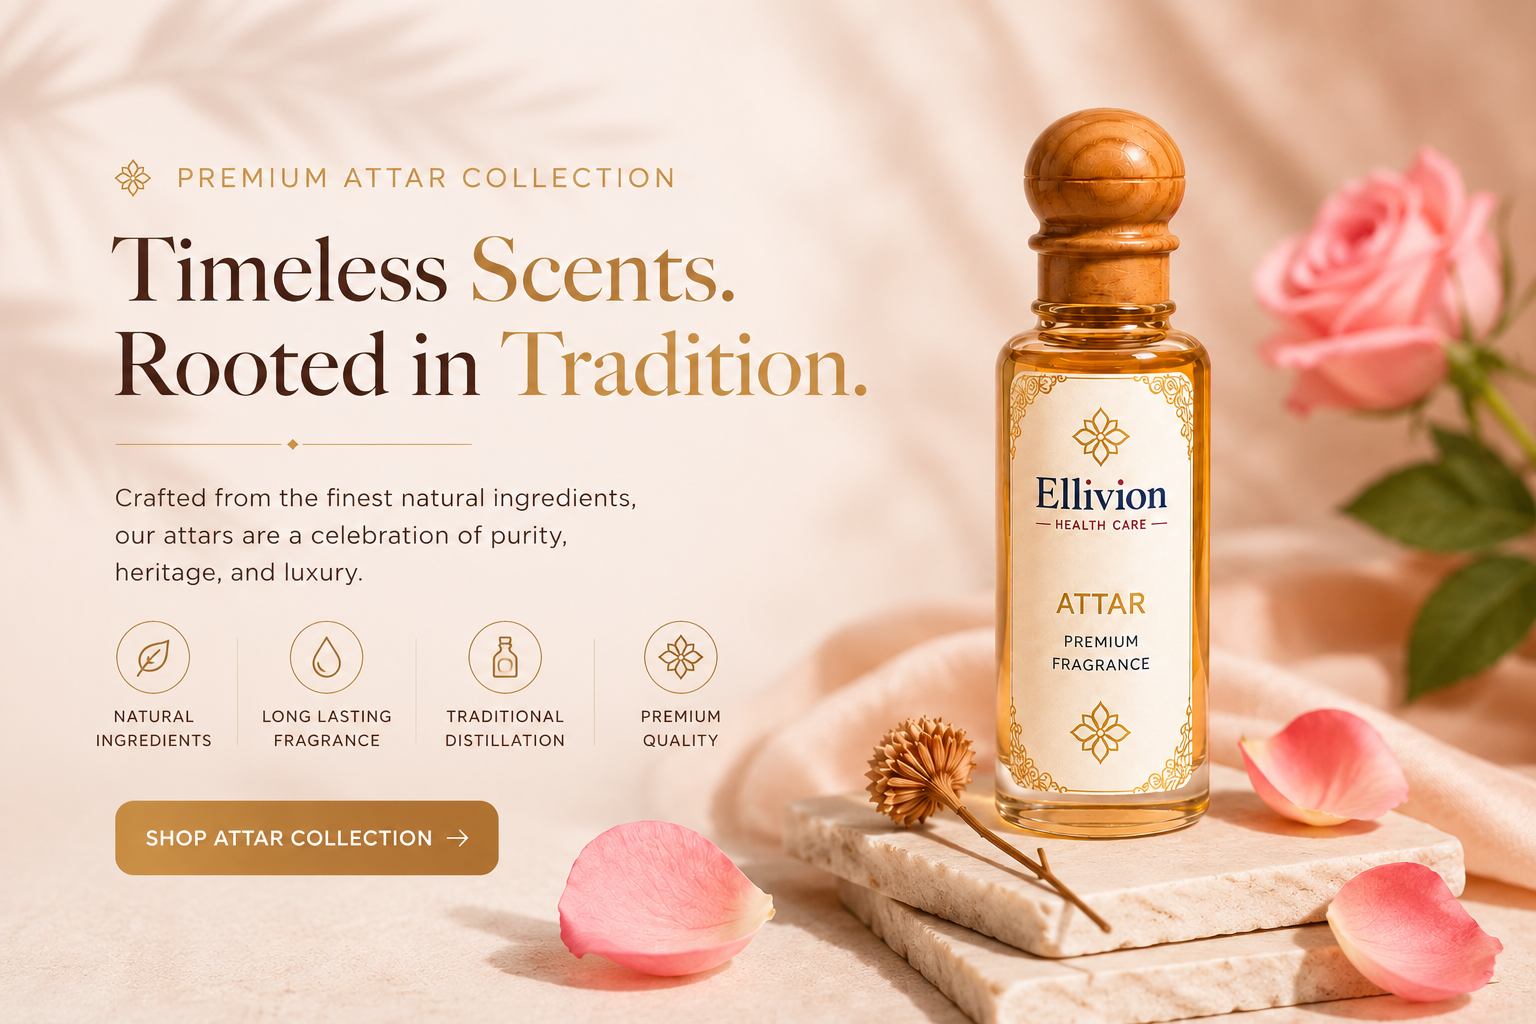
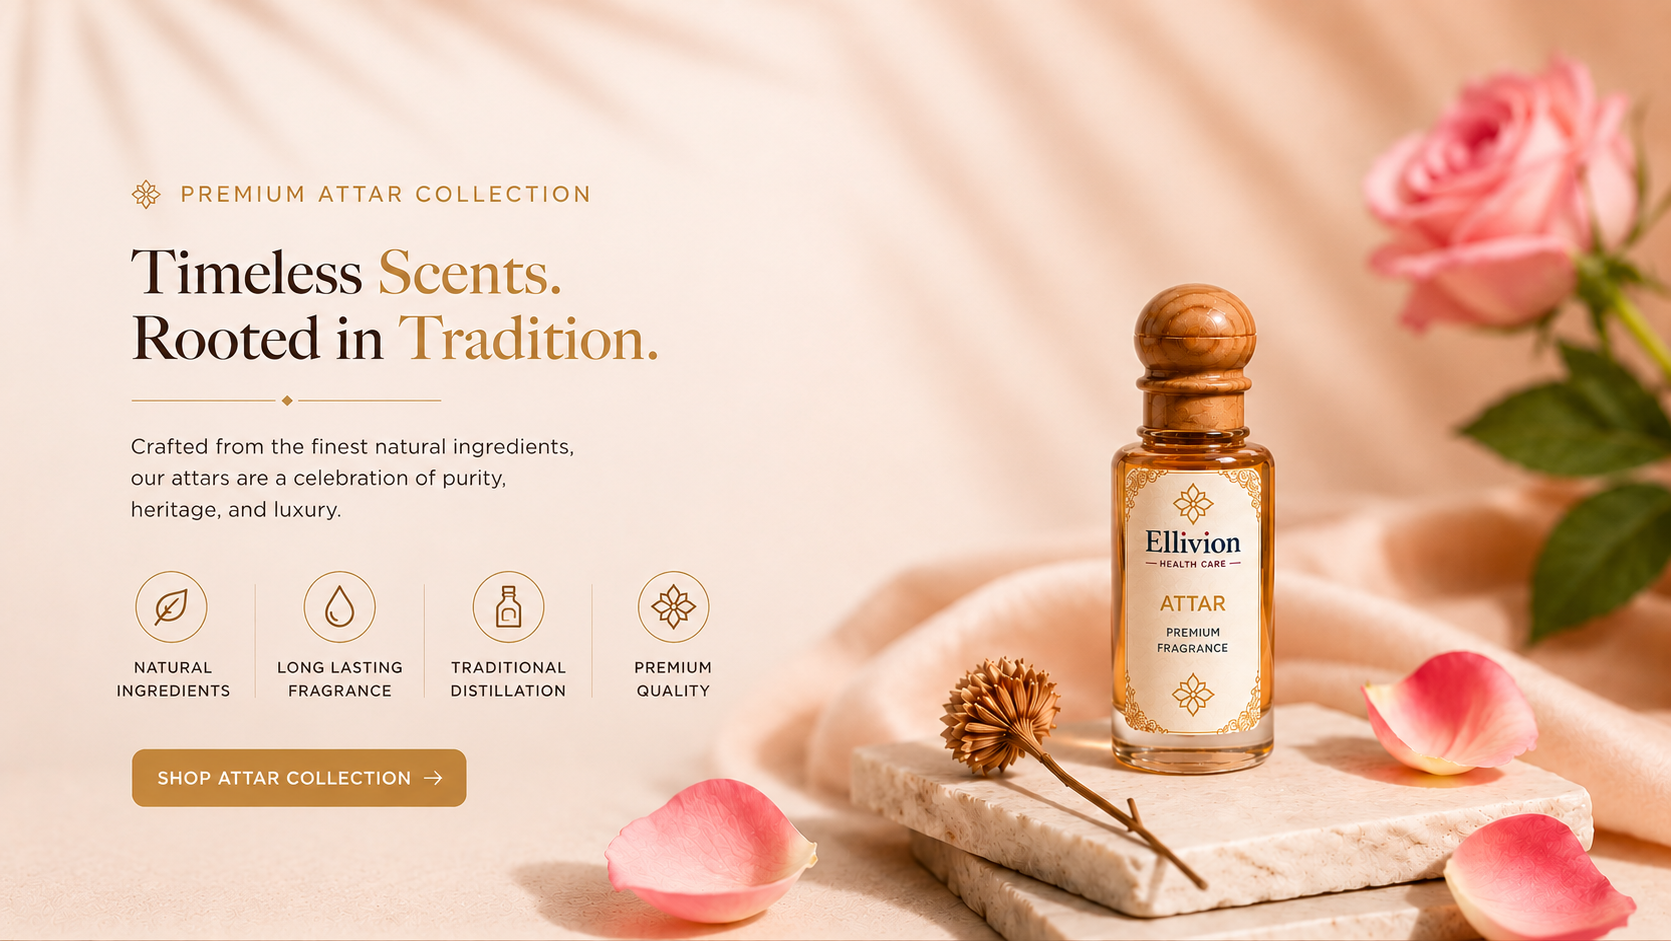
Update website design and features

diff --git a/src/components/SiteFooter.tsx b/src/components/SiteFooter.tsx
@@ -1,50 +1,125 @@
+
+import { Phone,  MapPin } from "lucide-react";
 import { Link } from "@tanstack/react-router";
-import { Instagram, Twitter, Facebook, Mail } from "lucide-react";
 import logo from "@/assets/ellivion.png";
+const NAVY = "#141773";
+const CORAL = "#f06b6b";
+const GOLD = "#e9c46a";
+const CREAM = "#f3ecdf";
+import { Instagram, Twitter, Facebook, Mail } from "lucide-react";
+function Ornament() {
+  return (
+    <div className="flex items-center justify-center gap-2" aria-hidden>
+      <span className="h-px w-16 sm:w-24" style={{ background: GOLD }} />
+      <span style={{ color: GOLD }}>◆</span>
+      <span style={{ color: GOLD }}>◀</span>
+      <span style={{ color: GOLD }}>●</span>
+      <span style={{ color: GOLD }}>▶</span>
+      <span style={{ color: GOLD }}>◆</span>
+      <span className="h-px w-16 sm:w-24" style={{ background: GOLD }} />
+    </div>
+  );
+}
 
 export function SiteFooter() {
   return (
-    <footer className="mt-32 relative overflow-hidden bg-gradient-vibrant text-white">
-      <div className="absolute -top-24 -right-24 w-96 h-96 bg-pink/60 animate-blob blur-3xl" />
-      <div className="absolute -bottom-24 -left-24 w-96 h-96 bg-pink/40 animate-blob blur-3xl" />
-      <div className="relative mx-auto max-w-7xl px-6 lg:px-10 py-20 grid gap-12 md:grid-cols-4">
-        <div className="md:col-span-2 max-w-sm">
-          <div className="bg-white/95 inline-block rounded-2xl p-3">
+    <footer className="w-full">
+      {/* Coral top band with ornament */}
+      {/* <div className="relative h-40 sm:h-48 flex items-end justify-center pb-6" style={{ background: CORAL }}>
+        <Ornament />
+      </div> */}
+
+      {/* Navy main section */}
+      <div style={{ background: NAVY, color: CREAM }}>
+        <div className="mx-auto max-w-7xl px-6 md:px-10 lg:px-16 py-30 lg:py-20">
+          <div className="grid grid-cols-1 lg:grid-cols-3 gap-12 lg:gap-16">
+            {/* LEFT COLUMN — Brand */}
+            <div>
+           
+               <div className="bg-white/95 inline-block p-3">
             <img src={logo} alt="Ellivion Healthcare" className="h-12 w-auto" />
           </div>
-          <p className="mt-6 text-white/85 leading-relaxed">
-           Ellivion Healthcare Private Limited is dedicated to crafting exceptional wellness, beauty, and fragrance experiences—bringing together quality, innovation, and timeless traditions.
-          </p>
-          <div className="mt-6 flex gap-3">
+            
+
+              <div className="flex">
+                 <h4 className="text-sm font-semibold mb-4 text-[20px] text-white mt-8  normal-case">
+          
+          Ellivion brings together wellness, beauty, and fragrance in thoughtfully curated collections designed to enrich everyday living.
+         </h4>
+              </div>
+
+             
+
+             <div className="mt-6 flex gap-3">
             {[Instagram, Twitter, Facebook, Mail].map((Icon, i) => (
               <a key={i} href={Icon === Instagram ? "https://www.instagram.com/ellivion.official?igsh=c2NxZ3Nka25xanJz" : Icon === Twitter ? "https://twitter.com/ellivion" : Icon === Facebook ? "https://www.facebook.com/share/1B3P9fEz4W/" : "mailto:[email redacted]"} className="p-2.5 rounded-full bg-white/15 hover:bg-pink transition-colors" aria-label="social">
                 <Icon size={16} />
               </a>
             ))}
           </div>
-        </div>
-        <div>
-          <h4 className="text-sm font-semibold mb-4 text-white">Explore</h4>
+            </div>
+
+         
+            <div>
+            
+   <div>
+          <h4 className="text-sm font-semibold mb-4 text-[20px] text-white">Explore</h4>
           <ul className="space-y-2.5 text-sm text-white/80">
-            <li><Link to="/products" className="hover:text-pink">Products</Link></li>
-            <li><Link to="/about" className="hover:text-pink">About</Link></li>
-            <li><Link to="/blog" className="hover:text-pink">Blog</Link></li>
-            <li><Link to="/media" className="hover:text-pink">Media</Link></li>
+            <li><Link to="/products" className="hover:text-pink hover:underline">Products</Link></li>
+            <li><Link to="/about" className="hover:text-pink hover:underline">About</Link></li>
+            <li><Link to="/blog" className="hover:text-pink hover:underline">Blog</Link></li>
+            <li><Link to="/media" className="hover:text-pink hover:underline">Media</Link></li>
           </ul>
         </div>
-        <div>
-          <h4 className="text-sm font-semibold mb-4 text-white">Company</h4>
+           
+               <div>
+          <h4 className="text-sm font-semibold mb-4 text-[20px] text-white mt-8">Company</h4>
           <ul className="space-y-2.5 text-sm text-white/80">
-            <li><Link to="/careers" className="hover:text-pink">Careers</Link></li>
-            <li><Link to="/contact" className="hover:text-pink">Contact</Link></li>
-            <li><Link to="/privacy" className="hover:text-pink">Privacy</Link></li>
-            <li><Link to="/terms" className="hover:text-pink">Terms</Link></li>
+            <li><Link to="/careers" className="hover:text-pink hover:underline">Careers</Link></li>
+            <li><Link to="/contact" className="hover:text-pink hover:underline">Contact</Link></li>
+            <li><Link to="/privacy" className="hover:text-pink hover:underline">Privacy</Link></li>
+            <li><Link to="/terms" className="hover:text-pink hover:underline">Terms</Link></li>
           </ul>
         </div>
-      </div>
-      <div className="relative border-t border-white/15 py-6 text-center text-xs text-white/70">
-        © {new Date().getFullYear()} Ellivion Healthcare Private Limited. Ayurveda meets science.
+            </div>
+
+            {/* RIGHT COLUMN — Map */}
+            <div>
+              <div className="border overflow-hidden shadow-2xl" style={{ borderColor: GOLD }}>
+                <iframe
+                  title="Ellivion Location"
+                  src="https://maps.google.com/maps?q=28.6139,77.2090&z=15&output=embed"
+                  className="w-full h-[280px] sm:h-[360px] lg:h-[400px] block"
+                  style={{ border: 0 }}
+                  loading="lazy"
+                />
+              </div>
+              <a
+                href="https://maps.app.goo.gl/h5bE7jg2ujo1DrPM7"
+                target="_blank"
+                rel="noopener noreferrer"
+                className="mt-4 inline-flex items-center gap-2 text-[11px] tracking-[0.3em] uppercase hover:text-white transition"
+                style={{ color: "#FFFFFF" }}
+              >
+                <MapPin size={14} />
+                Open In Google Maps
+              </a>
+            </div>
+          </div>
+        </div>
+
+        {/* FOOTER BOTTOM */}
+        <div className="border-t" style={{ borderColor: "rgba(243,236,223,0.12)" }}>
+          <div
+            className="mx-auto max-w-7xl px-6 md:px-10 lg:px-16 py-6 text-center text-[11px] tracking-[0.3em] uppercase"
+            style={{ color: "rgba(243,236,223,0.55)" }}
+          >
+            © {new Date().getFullYear()} Ellivion Healthcare Private Limited · Crafted With Care
+          </div>
+        </div>
       </div>
     </footer>
   );
 }
+
+export default SiteFooter;

diff --git a/src/routes/index.tsx b/src/routes/index.tsx
@@ -122,45 +122,46 @@ function Home() {
       src={slide.image}
       alt=""
       aria-hidden="true"
-      className="block w-full h-auto"
+      className="block w-full !h-auto sm:!h-96 md:!h-[500px] lg:!h-[80vh] object-contain sm:object-cover bg-gradient-to-b from-pink/20 to-pink/10"
+      // className="block w-full h-80 sm:h-96 md:h-[500px] lg:h-[80vh] object-contain sm:object-cover bg-gradient-to-b from-pink/20 to-pink/10"
     />
 
     {/* Slider Controls */}
-    <div className="absolute bottom-4 left-1/2 -translate-x-1/2 z-20">
-      <div className="flex items-center gap-4 rounded-full bg-black/15 backdrop-blur-md px-4 py-3">
-{/*        
-        <div className="flex gap-2">
+    <div className="absolute bottom-1.5 sm:bottom-4 left-1/2 -translate-x-1/2 z-20 w-full px-2">
+      <div className="flex items-center justify-center gap-1 sm:gap-4 rounded-full bg-black/15 backdrop-blur-md px-2 sm:px-4 py-1.5 sm:py-3 max-w-fit mx-auto">
+       
+        <div className="flex gap-1 sm:gap-2">
           {slides.map((_, i) => (
             <button
               key={i}
               onClick={() => setIdx(i)}
-              className={`h-[2px] transition-all duration-300 ${
+              className={`h-[1.5px] sm:h-[2px] transition-all duration-300 ${
                 i === idx
-                  ? "w-12 bg-white"
-                  : "w-6 bg-white/40"
+                  ? "w-5 sm:w-12 bg-white"
+                  : "w-3 sm:w-6 bg-white/40"
               }`}
             />
           ))}
-        </div> */}
+        </div> 
 
        
-        {/* <div className="flex gap-2">
+      <div className="flex gap-0.5 sm:gap-2 ml-1 sm:ml-2">
           <button
             onClick={() =>
               setIdx((i) => (i - 1 + slides.length) % slides.length)
             }
-            className="w-8 h-8 rounded-full border border-white/40 flex items-center justify-center text-white"
+            className="w-5 h-5 sm:w-8 sm:h-8 rounded-full border border-white/40 flex items-center justify-center text-white hover:bg-white hover:text-black transition"
           >
-            <ChevronLeft className="w-4 h-4" />
+            <ChevronLeft className="w-2.5 h-2.5 sm:w-4 sm:h-4" />
           </button>
 
           <button
             onClick={() => setIdx((i) => (i + 1) % slides.length)}
-            className="w-8 h-8 rounded-full border border-white/40 flex items-center justify-center text-white"
+            className="w-5 h-5 sm:w-8 sm:h-8 rounded-full border border-white/40 flex items-center justify-center text-white hover:bg-white hover:text-black transition"
           >
-            <ChevronRight className="w-4 h-4" />
+            <ChevronRight className="w-2.5 h-2.5 sm:w-4 sm:h-4" />
           </button>
-        </div> */}
+        </div> 
       </div>
     </div>
   </div>
@@ -193,11 +194,11 @@ function Home() {
             <div className="grid lg:grid-cols-12 gap-8 sm:gap-12 mb-14 sm:mb-20 lg:mb-24">
               <div className="lg:col-span-5">
                 <p className="text-[11px] uppercase tracking-[0.3em] text-muted-foreground mb-6">
-                  — Our Essence
+                  — OUR PHILOSOPHY
                 </p>
-                <h2 className="font-display text-4xl sm:text-5xl md:text-6xl lg:text-7xl leading-[1.05] sm:leading-[1] text-balance">
-                  Thoughtful rituals that honor both <em className="text-gold">science</em> and{" "}
-                  <em>soul.</em>
+                <h2 className="font-display text-3xl sm:text-5xl md:text-6xl lg:text-7xl leading-[1.05] sm:leading-[1] text-balance">
+                Intelligent nutrition for timeless <em className="text-gold">vitality </em> and{" "}
+                  <em>elevated living.</em>
                 </h2>
               </div>
               <div className="lg:col-span-5 lg:col-start-8 self-end">
@@ -214,20 +215,20 @@ function Home() {
               {
                 icon: Leaf,
                 n: "01",
-                t: "Conscious Formulation",
-                d: "Pure botanicals and time-honored Wellness actives, ethically sourced.",
+                t: "Thoughtfully Formulated",
+                d: "Every product is carefully developed using high-quality ingredients, combining traditional knowledge with modern innovation.",
               },
               {
                 icon: ShieldCheck,
                 n: "02",
-                t: "Clinically Inspired",
-                d: "Dermatologist-developed and backed by research.",
+                t: "Science-Backed Excellence",
+                d: "From longevity supplements to wellness solutions, our formulations are guided by research, quality standards, and proven ingredients.",
               },
               {
                 icon: Sparkles,
                 n: "03",
-                t: "Sensory Luxury",
-                d: "Every jar and drop designed to slow the day — a small ceremony.",
+                t: "Premium Quality",
+                d: "Crafted with meticulous attention to purity, authenticity, and consistency to deliver an exceptional experience in every product.",
               },
             ].map((v, i) => (
               <Reveal key={v.n} delay={i * 120}>
@@ -252,11 +253,12 @@ function Home() {
             <div className="flex flex-col sm:flex-row sm:items-end justify-between gap-6 mb-12 sm:mb-16 lg:mb-20">
               <div>
                 <p className="text-[11px] uppercase tracking-[0.3em] text-muted-foreground mb-6">
-                  — Signature Rituals
+                  — SIGNATURE COLLECTIONS
+
                 </p>
                 <h2 className="font-display text-4xl sm:text-5xl md:text-6xl leading-[1.05] sm:leading-[1]">
-                  Loved by those who know <br className="hidden sm:block" />
-                  <em className="text-gold">beauty from within.</em>
+       Thoughtfully crafted for every         <br className="hidden sm:block" />
+                  <em className="text-gold"> aspect of wellbeing.</em>
                 </h2>
               </div>
               <a
@@ -314,7 +316,8 @@ function Home() {
               ))}
             </div>
             <blockquote className="font-display text-2xl sm:text-3xl md:text-5xl leading-[1.18] sm:leading-[1.15] text-balance italic text-ink">
-              "A refined sanctuary of wellness — where beauty is not merely seen, but deeply felt."
+              "Wellness begins with trust, grows through quality, and endures through consistency.
+"
             </blockquote>
             
            
@@ -327,14 +330,14 @@ function Home() {
         <div className="mx-auto max-w-3xl px-4 sm:px-6 text-center">
           <Reveal>
             <p className="text-[11px] uppercase tracking-[0.3em] text-background/50 mb-8">
-              — Join the Circle
+              — JOIN THE ELLIVION COMMUNITY
             </p>
             <h2 className="font-display text-4xl sm:text-5xl md:text-7xl leading-[1.05] sm:leading-[1] text-balance text-white">
-              Begin your <em className="text-gold">ritual.</em>
+        Elevate your everyday with Ellivion.
+
             </h2>
             <p className="mt-6 sm:mt-8 text-base sm:text-lg text-background/70 leading-relaxed max-w-xl mx-auto">
-              Receive 15% off your first order and quiet, monthly letters on the art of conscious
-              beauty.
+         Receive 15% off your first order and stay connected to the latest in wellness, beauty, and fragrance.
             </p>
             <form
               onSubmit={(e) => e.preventDefault()}
@@ -346,13 +349,11 @@ function Home() {
                 className="w-full min-w-0 flex-1 px-6 py-4 rounded-full bg-background/5 border border-background/15 focus:border-background/40 outline-none transition placeholder:text-background/40 text-background"
               />
               <button className="group w-full sm:w-auto px-8 py-4 rounded-full bg-background text-ink text-[12px] uppercase tracking-[0.22em] hover:bg-gold transition flex items-center justify-center gap-2 bg-white text-black">
-                Join
+                Join Today
                 <ArrowRight className="w-4 h-4 transition-transform group-hover:translate-x-1" />
               </button>
             </form>
-            <p className="mt-6 text-xs text-background/40 tracking-wide">
-              Zero spam. Only soul-nourishing updates.
-            </p>
+         
           </Reveal>
         </div>
       </section>

diff --git a/src/routes/careers.tsx b/src/routes/careers.tsx
@@ -14,9 +14,11 @@ export const Route = createFileRoute("/careers")({
 });
 
 const roles = [
-  { title: "Digital Marketing Specialist", dept: "Growth", location: "Delhi" },
- { title: "Content Writer", dept: "Growth", location: "Delhi" },
- 
+  { title: "Digital Marketing Specialist", dept: "Growth", location: "Delhi", description: "Drive digital campaigns, content strategy, and brand visibility across channels." },
+  { title: "Content Writer", dept: "Growth", location: "Delhi", description: "Create compelling, research-backed content for wellness, health, and brand storytelling." },
+   { title: "Sales Associate", dept: "Growth", location: "Delhi", description: "Create compelling, research-backed content for wellness, health, and brand storytelling." },
+ { title: "Customer Service Representative", dept: "Growth", location: "Delhi", description: "Create compelling, research-backed content for wellness, health, and brand storytelling." },
+
 ];
 
 function CareersPage() {
@@ -46,16 +48,17 @@ function CareersPage() {
         <div className="border-t-2 border-pink/30">
           {roles.map((r, i) => (
             <Reveal key={r.title} delay={i * 60}>
-              <a href="#" className="group flex items-center justify-between py-7 border-b-2 border-pink/20 hover:bg-pink/5 transition-colors px-2 rounded-lg">
-                <div>
+              <a href="mailto:[email redacted]" className="group flex items-center justify-between py-7 border-b-2 border-pink/20 hover:bg-pink/5 transition-colors px-2 rounded-lg">
+                <div className="flex-1">
                   <h3 className="text-xl md:text-2xl group-hover:text-pink transition-colors">{r.title}</h3>
                   <div className="mt-2 flex gap-4 text-sm text-foreground/60">
                     <span>{r.dept}</span>
                     <span>·</span>
                     <span>{r.location}</span>
                   </div>
+                  <p className="mt-3 text-sm text-foreground/70">{r.description}</p>
                 </div>
-                <div className="w-12 h-12 rounded-full bg-pink/10 grid place-items-center group-hover:bg-pink group-hover:text-white transition-all">
+                <div className="w-12 h-12 rounded-full bg-pink/10 grid place-items-center group-hover:bg-pink group-hover:text-white transition-all shrink-0 ml-4">
                   <ArrowUpRight className="group-hover:rotate-45 transition-transform duration-300" />
                 </div>
               </a>

diff --git a/src/routes/about.tsx b/src/routes/about.tsx
@@ -10,7 +10,7 @@ export const Route = createFileRoute("/about")({
   head: () => ({
     meta: [
       { title: "About — Ellivion Healthcare" },
-      { name: "description", content: "Ellivion Healthcare Private Limited develops high-quality nutraceutical and Ayurvedic products for holistic health and well-being." },
+      { name: "description", content: "Ellivion Healthcare Private Limited develops high-quality nutraceutical and Wellness products for holistic health and well-being." },
     ],
   }),
   component: AboutPage,
@@ -50,10 +50,10 @@ function AboutPage() {
         <div className="relative mx-auto max-w-4xl px-6 text-center">
           <p className="text-xs uppercase tracking-[0.25em] text-pink font-semibold">Our story</p>
           <h1 className="mt-6 text-5xl md:text-7xl text-balance leading-[1.02]">
-            Wellness rooted in <em className="italic text-pink">Ayurveda,</em><br />validated by <em className="italic text-pink">science.</em>
+           <em className="italic text-pink"> Wellness, beauty and fragrance </em><br /> <em >thoughtfully reimagined..</em>
           </h1>
           <p className="mt-8 text-lg text-foreground/75 leading-relaxed max-w-2xl mx-auto">
-            Ellivion Healthcare Private Limited is a forward-thinking wellness company dedicated to developing high-quality nutraceutical and Ayurvedic products designed to support holistic health and well-being.
+        We believe exceptional products begin with exceptional standards. Every Ellivion creation is developed with care, guided by quality, and designed to enrich everyday life.
           </p>
         </div>
       </section>
@@ -102,8 +102,8 @@ function AboutPage() {
         <div className="mt-16 grid sm:grid-cols-2 gap-8 max-w-3xl mx-auto">
           {directors.map((p, i) => (
             <Reveal key={p.name} delay={i * 80}>
-              <div className="group relative bg-card rounded-3xl p-6 shadow-soft hover:shadow-elegant transition-all duration-500 hover:-translate-y-1 border border-pink/10">
-                <div className="overflow-hidden aspect-square rounded-2xl bg-gradient-to-br from-pink to-pink/60 mb-5 shadow-pink">
+              <div className="group relative bg-card rounded-3xl p-6 transition-all duration-500 hover:-translate-y-3 hover:scale-105 border border-pink/10 hover:border-pink/30" style={{ boxShadow: "0 10px 30px rgba(0, 0, 0, 0.1), 0 15px 40px rgba(239, 121, 121, 0.15)" }}>
+                <div className="overflow-hidden aspect-square rounded-2xl bg-gradient-to-br from-pink to-pink/60 mb-5 shadow-pink group-hover:shadow-2xl transition-all duration-500">
                   {p.image ? (
                     <img src={p.image} alt={`${p.name} portrait`} className="h-full w-full object-cover" />
                   ) : (

diff --git a/src/data/testReports.ts b/src/data/testReports.ts
@@ -22,7 +22,7 @@ export const TEST_REPORTS: TestReport[] = [
   {
     batchNumber: "ELV-ASH-2026-001",
     productName: "Ashwagandha Root Extract Capsules",
-    category: "Ayurvedic",
+    category: "Wellness",
     manufacturingDate: "2026-01-12",
     expiryDate: "2028-01-11",
     testDate: "2026-01-18",